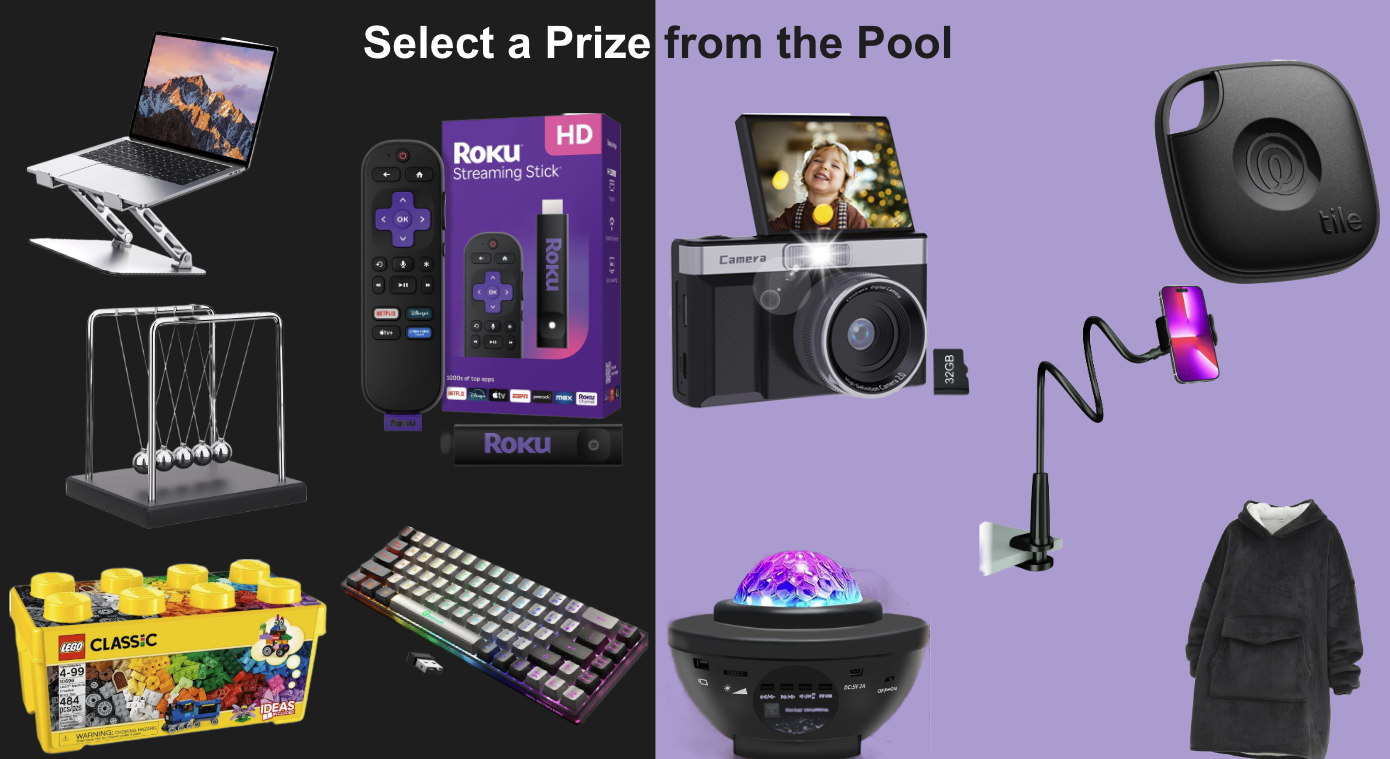
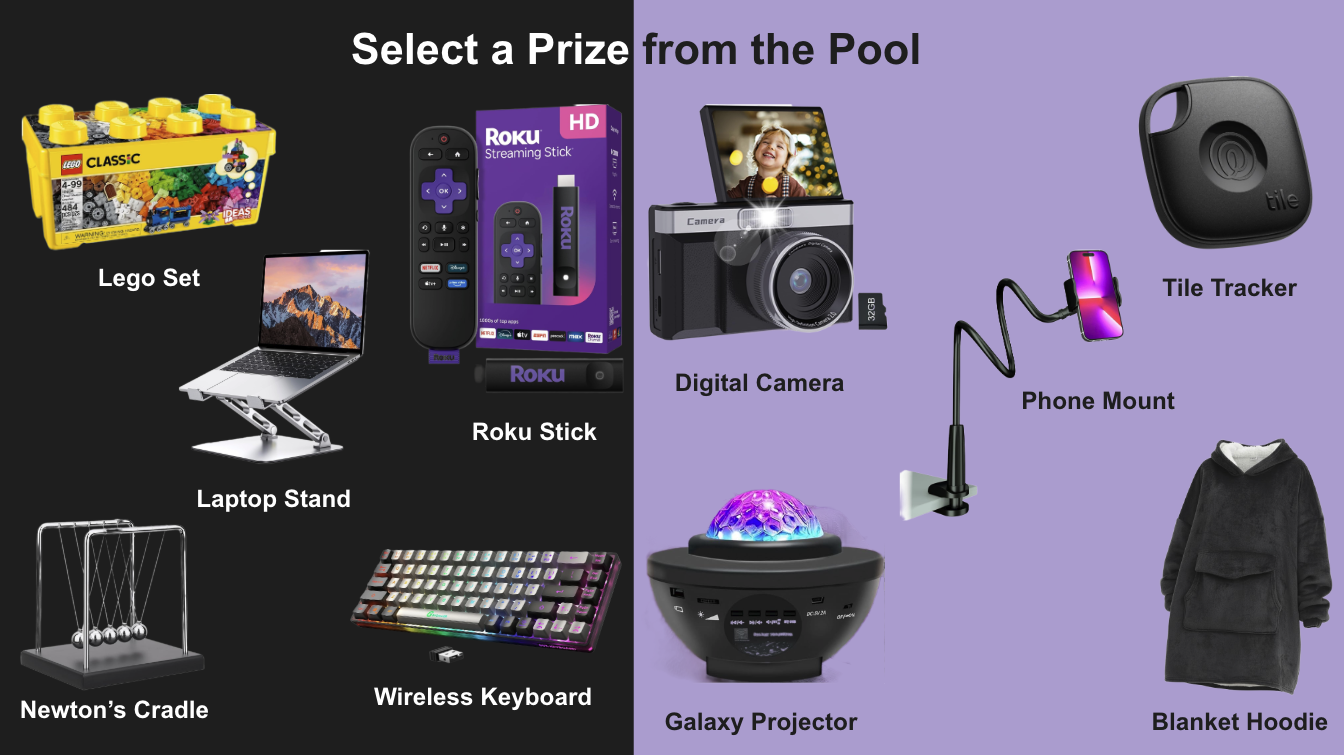
Update Prizes for Spring 2026

diff --git a/prizes.html b/prizes.html
@@ -44,18 +44,18 @@
                 <div class="grid grid-cols-1 md:grid-cols-2 gap-8">
                     <!-- First Column -->
                     <div class="space-y-6">
-                        <!-- <div class="prize-item">
-                            <h3 class="text-black text-2xl font-bold">Trivia: $25 Purple Bowl Gift Card </h3>
-                            <p class="text-gray-600">Best Smoothies in Chapel Hill</p>
+                        <div class="prize-item">
+                            <h3 class="text-black text-2xl font-bold">Trivia 1st Place: Tea Hill Free Drink Voucher </h3>
+                            <p class="text-gray-600">Best Boba in Chapel Hill</p>
                         </div>
                         <div class="prize-item">
-                            <h3 class="text-black text-2xl font-bold">Poker (last hand): $20 Buns Gift Card</h3>
-                            <p class="text-gray-600">Best Burgers in Chapel Hill</p>
-                        </div> -->
+                            <h3 class="text-black text-2xl font-bold">Poker (last hand): Tea Hill Free Drink Voucher</h3>
+                            <p class="text-gray-600">Best Boba in Chapel Hill</p>
+                        </div>
                         <div class="prize-item">
                             
                             <!-- Placeholder Title -->
-                            <h3 class="text-black text-2xl font-bold">Coming Soon... </h3>
+                            <!-- <h3 class="text-black text-2xl font-bold">Coming Soon... </h3> -->
                         </div>
                     </div>
                 </div>
@@ -72,12 +72,12 @@
                     <!-- First Column -->
                     <div class="space-y-6">
                         <div class="prize-item">
-                            <!-- <h3 class="text-black text-2xl font-bold text-center">Web and Game Dev (Per Person):</h3>
-                            <h3 class="text-black text-2xl font-bold text-center">Prize Bag + $20 Buns Gift Card</h3>
-                            <p class="text-gray-600">Capture your hackathon memories</p> -->
+                            <h3 class="text-black text-2xl font-bold text-center">Web and Game Dev (Per Person):</h3>
+                            <h3 class="text-black text-2xl font-bold text-center"> CS Prize Bag + Tea Hill Free Drink Voucher</h3>
+                            <p class="text-gray-600">Capture your hackathon memories</p>
 
                             <!-- Placeholder Title -->
-                            <h3 class="text-black text-2xl font-bold">Coming Soon... </h3>
+                            <!-- <h3 class="text-black text-2xl font-bold">Coming Soon... </h3> -->
                         </div>
                     </div>
                 </div>
@@ -90,10 +90,10 @@
         <!-- Prizes Image -->
         <div class="container">
             <div class="max-w-5xl mx-auto my-8 mb-8">
-                <!-- <img src="./images/F25-Prizes-with-labels.png" alt="Hack110 Prizes Collage" class="w-full h-auto object-cover rounded-lg shadow-lg" /> -->
+                <img src="./images/S26-Prizes.png" alt="Hack110 Prizes Collage" class="w-full h-auto object-cover rounded-lg shadow-lg" />
                 
                 <!-- Placeholder Title -->
-                <p>Coming Soon...</p>
+                <!-- <p>Coming Soon...</p> -->
             </div>
         </div>
         
